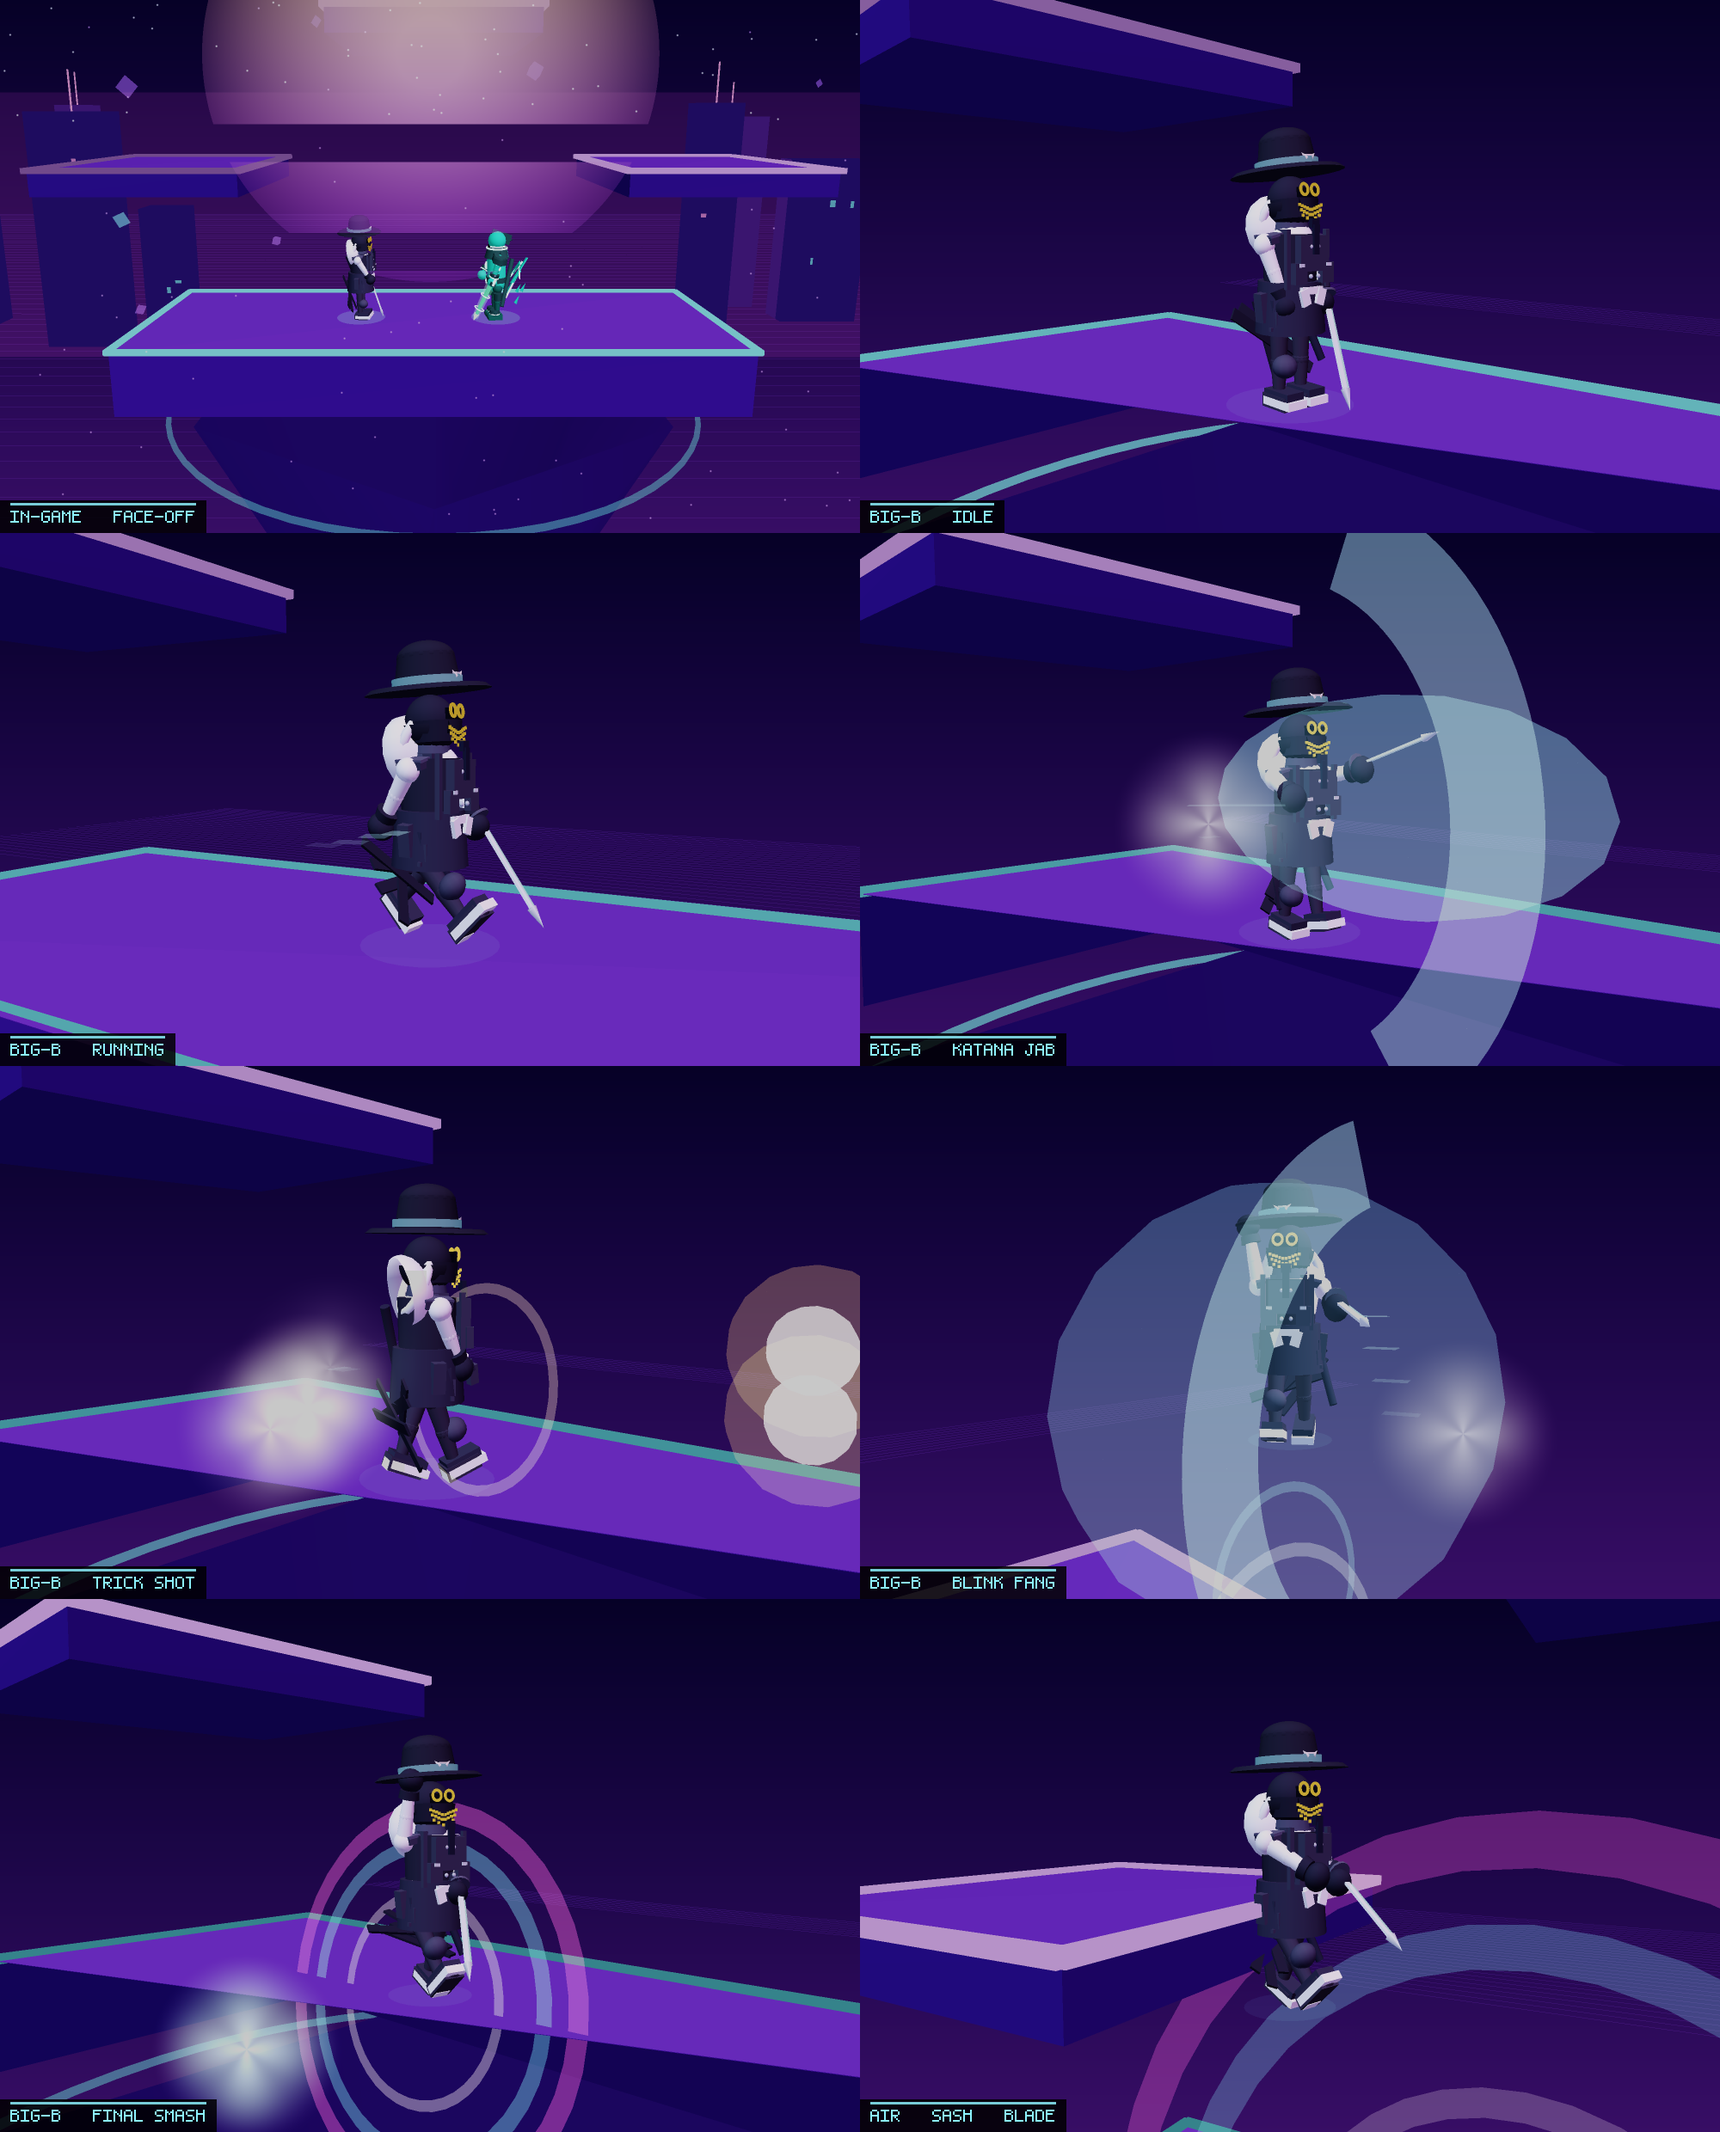
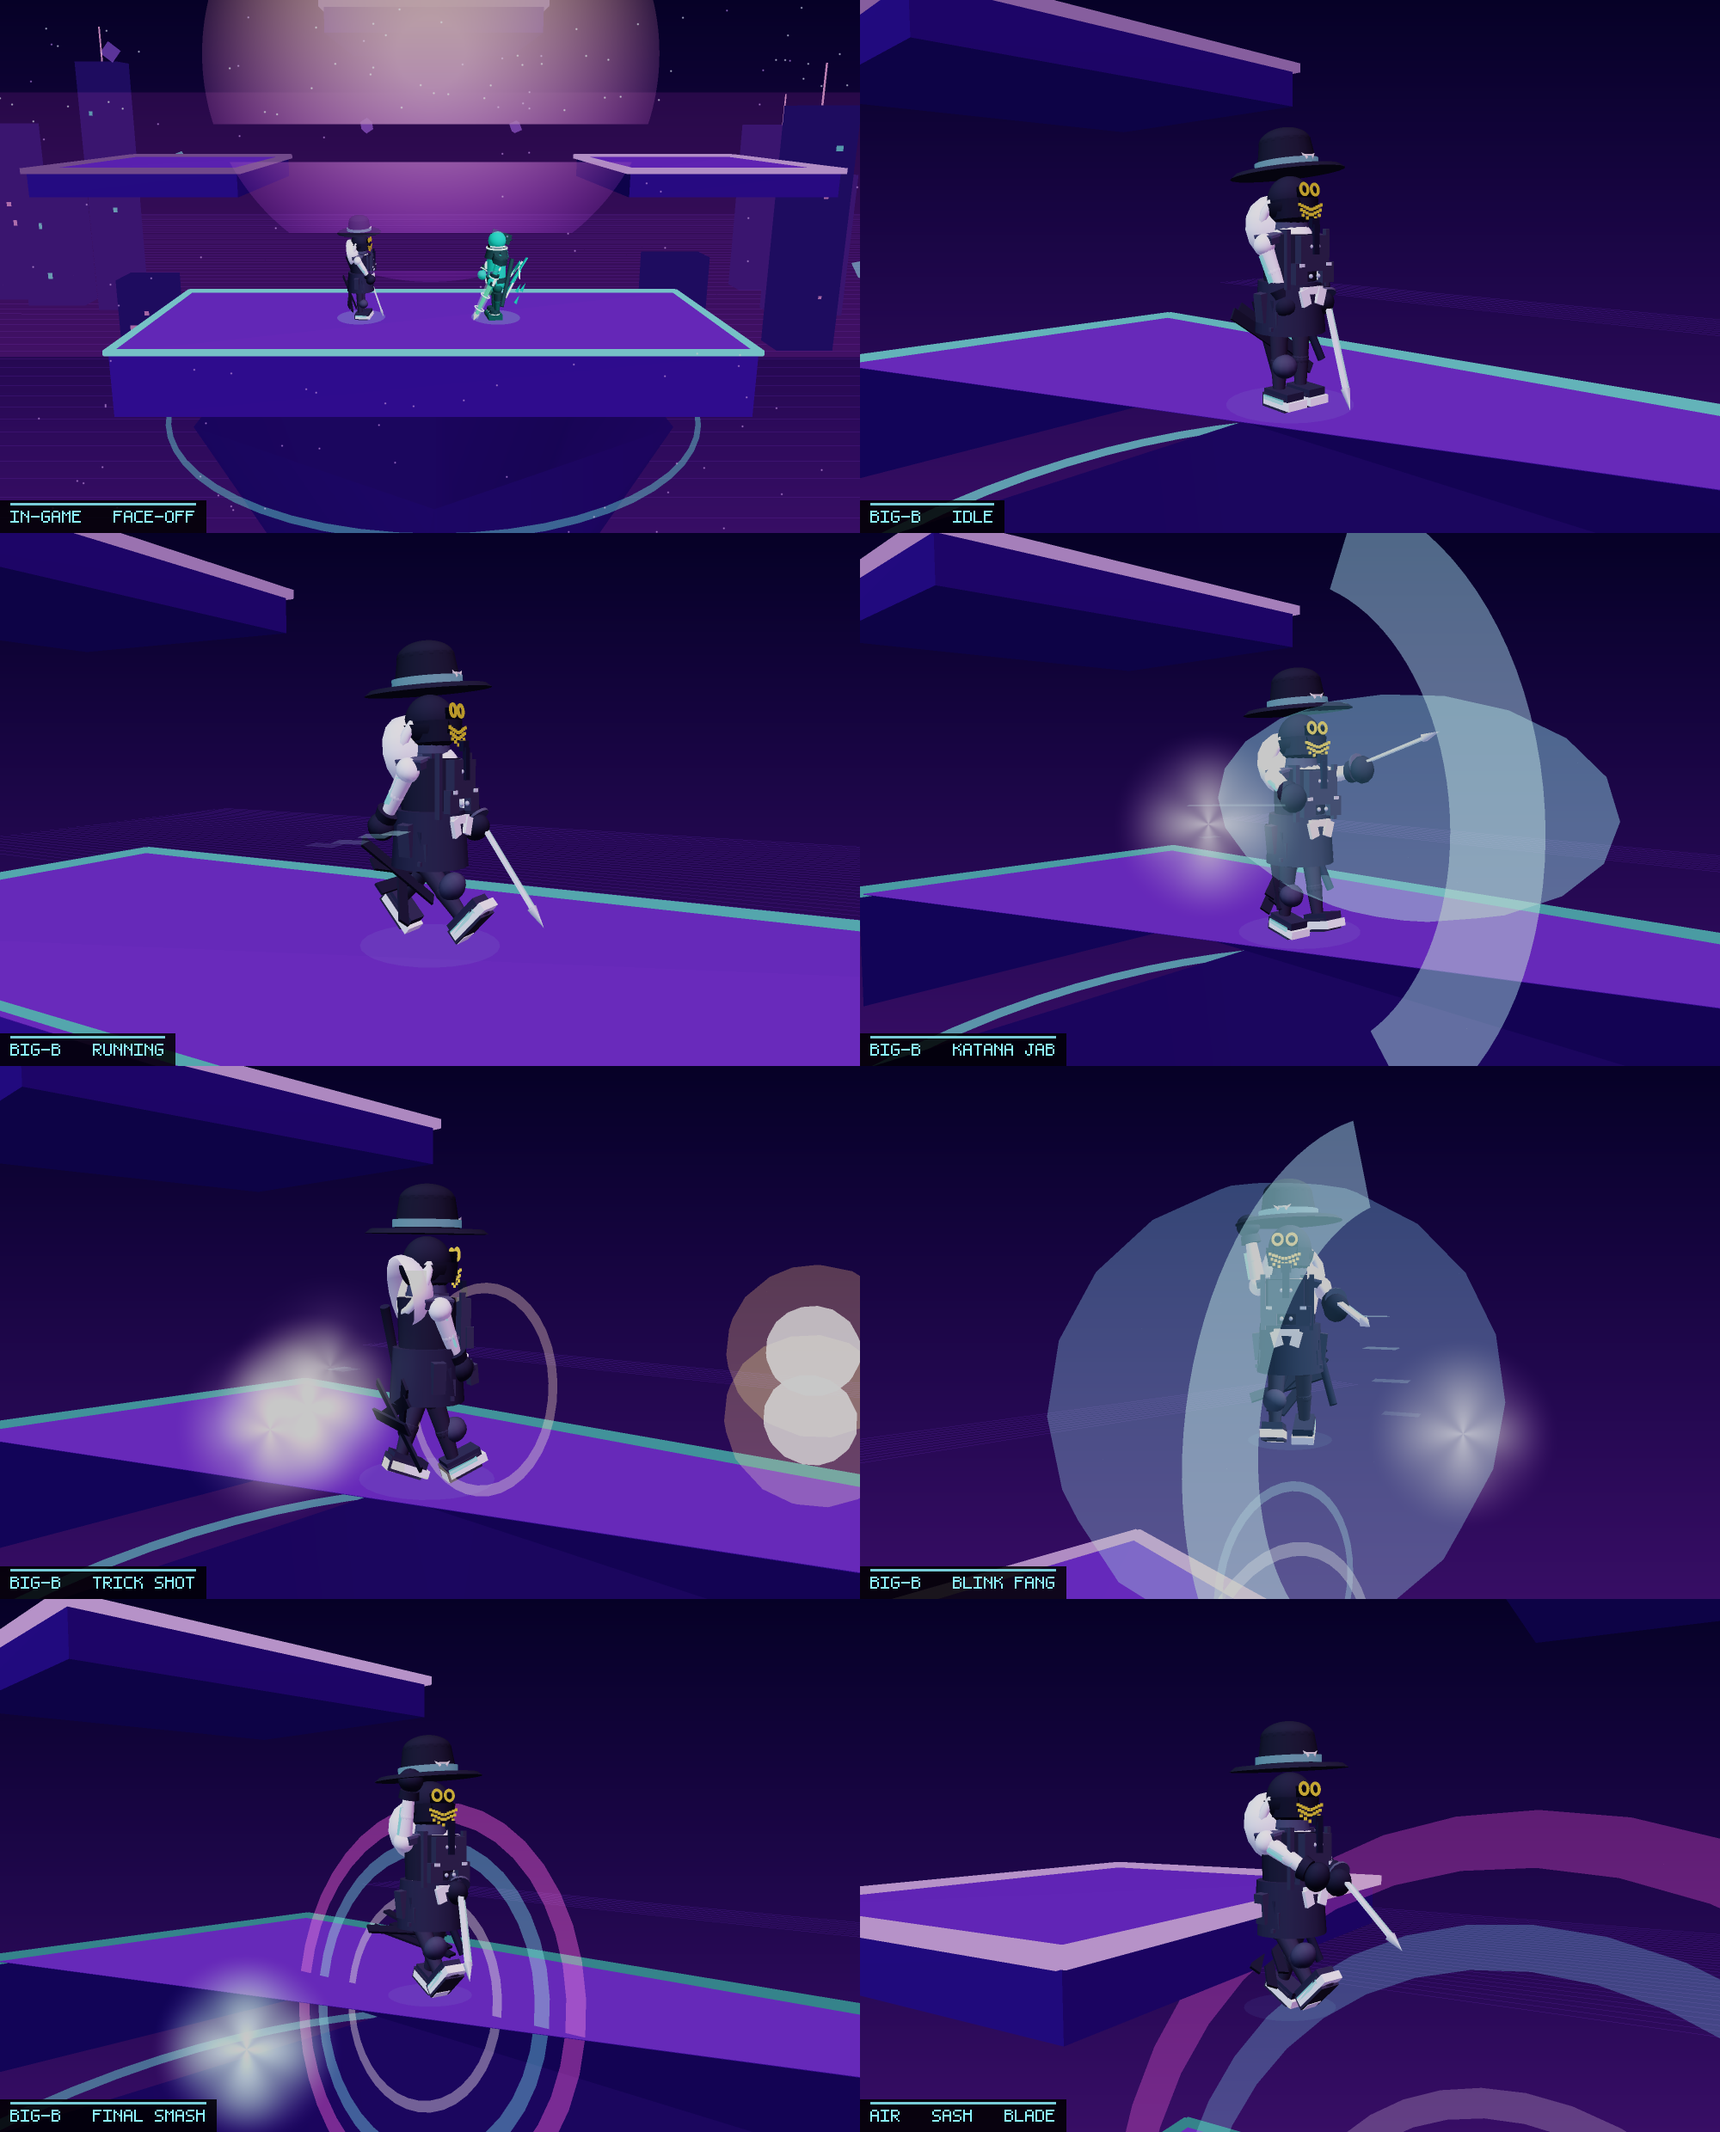
KAGE.EXE: neon cyan combat accents on the vest hem, sleeves and kicks
Three small accent reads so the flagship silhouette is not just black-and-white
at match distance: sleeve stripes, a glowing vest hem ring, and a swoosh on the
shoes, all driven by the costume's accent colour so every palette gets them.

diff --git a/index.html b/index.html
@@ -882,6 +882,8 @@ function buildFighter(d,scale){
     });
     const hem=new THREE.Mesh(new THREE.BoxGeometry(.30,.075,.20),WHT);
     hem.position.set(0,1.28,.30); g.add(hem);
+    const hemGlow=new THREE.Mesh(new THREE.TorusGeometry(.325,.014,6,22),ACCM);
+    hemGlow.rotation.x=Math.PI/2; hemGlow.position.y=1.13; hemGlow.scale.set(1,.92,1); g.add(hemGlow);
 
     /* ---- cargo shorts, thigh pouches, knee pad, leggings, chunky sneakers ---- */
     const shorts=new THREE.Mesh(new THREE.CylinderGeometry(.375,.415,.54,16),CRGO);
@@ -907,6 +909,8 @@ function buildFighter(d,scale){
       up.position.set(0,-(PR.legL+PR.footH*.20),.085); legs[sx>0?1:0].add(up);
       const lace=new THREE.Mesh(new THREE.BoxGeometry(.10,.028,.19),mat(0x55555f,0x202028,.2));
       lace.position.set(0,-(PR.legL+PR.footH*.02),.075); legs[sx>0?1:0].add(lace);
+      const swoosh=new THREE.Mesh(new THREE.BoxGeometry(.025,.045,.34),ACCM);
+      swoosh.position.set(.125*sx,-(PR.legL+PR.footH*.30),.05); legs[sx>0?1:0].add(swoosh);
       const heel=new THREE.Mesh(new THREE.BoxGeometry(.20,.10,.10),SOLE);
       heel.position.set(0,-(PR.legL+PR.footH*.70),-.10); legs[sx>0?1:0].add(heel);
     });
@@ -916,6 +920,8 @@ function buildFighter(d,scale){
     [-1,1].forEach(sx=>{
       const cuff=new THREE.Mesh(new THREE.CylinderGeometry(.125,.115,.09,12),GLOV);
       cuff.position.y=-PR.armL*.94; arms[sx>0?1:0].add(cuff);
+      const stripe=new THREE.Mesh(new THREE.BoxGeometry(.055,.30,.020),ACCM);
+      stripe.position.set(.085*sx,-PR.armL*.44,-.010); stripe.rotation.y=sx*.35; arms[sx>0?1:0].add(stripe);
     });
 
     /* ---- shoulders get the hoodie's white sleeves, already from P.limb ---- */
